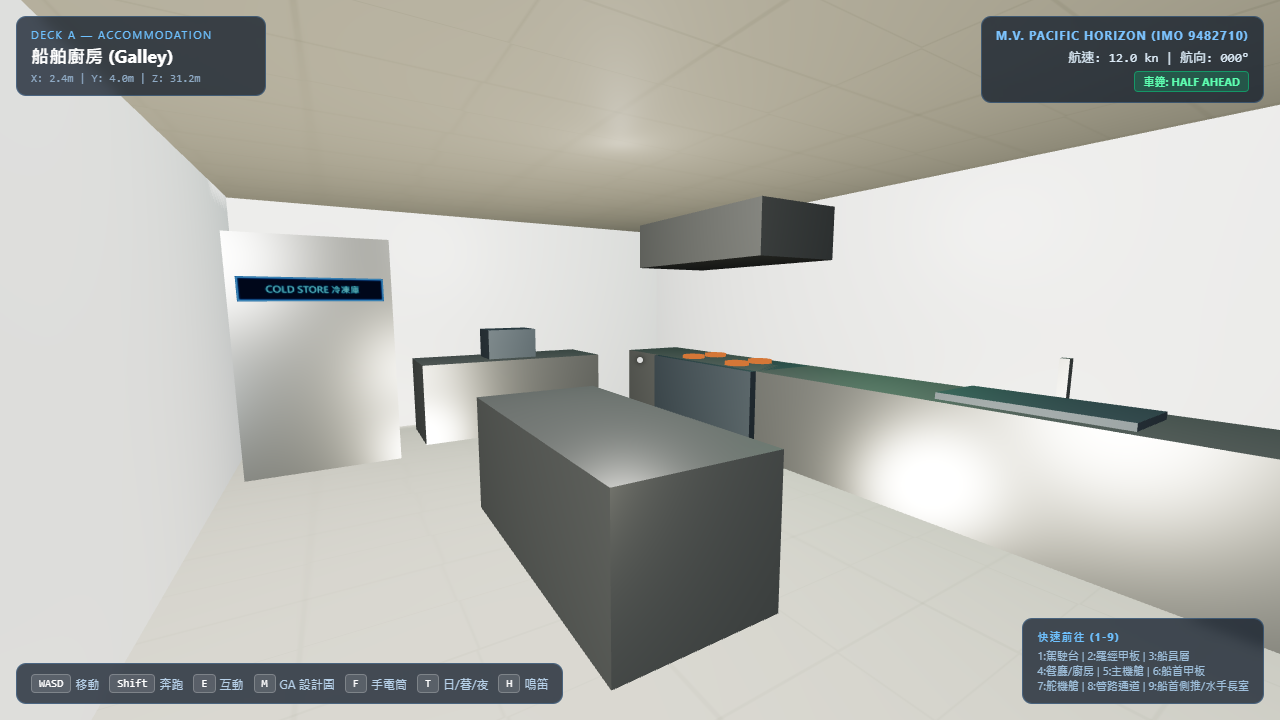
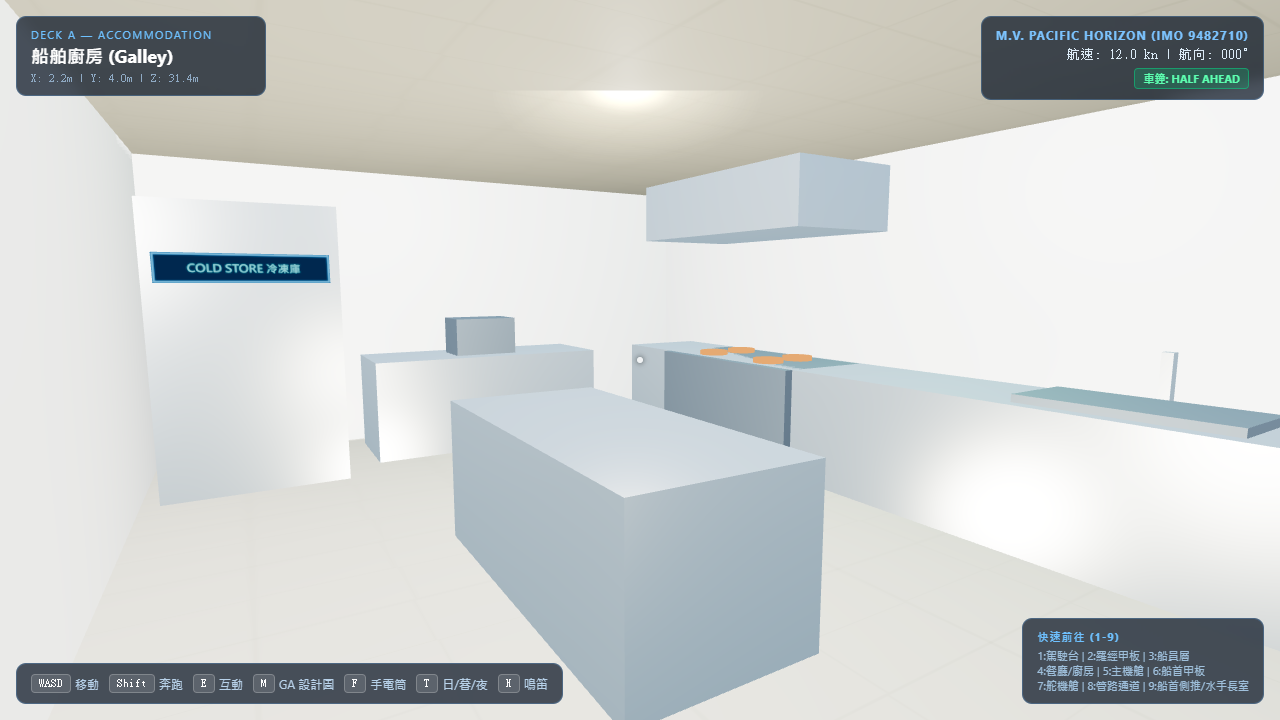
Refresh all 18 README screenshots with PBR lighting, GPU ocean & 1:1 bathrooms

diff --git a/index.html b/index.html
@@ -588,8 +588,8 @@
     map: texHullPlate, bumpMap: texHullBump, bumpScale: 0.025, roughnessMap: texHullRough, roughness: 0.78, metalness: 0.38
   });
   const matHullRed = new THREE.MeshStandardMaterial({ color: 0x8b2323, roughness: 0.7, metalness: 0.25 });
-  const matWhiteSteel = new THREE.MeshStandardMaterial({ color: 0xecf2f7, roughness: 0.45, metalness: 0.15 });
-  const matInteriorWall = new THREE.MeshStandardMaterial({ color: 0xe4e8ec, roughness: 0.6, metalness: 0.05 });
+  const matWhiteSteel = new THREE.MeshStandardMaterial({ color: 0xecf2f7, roughness: 0.48, metalness: 0.15, envMapIntensity: 0.55 });
+  const matInteriorWall = new THREE.MeshStandardMaterial({ color: 0xd8dee4, roughness: 0.72, metalness: 0.04, envMapIntensity: 0.22 });
   const matDeck = new THREE.MeshStandardMaterial({
     map: texDeckGreen, bumpMap: texDeckBump, bumpScale: 0.018, roughnessMap: texDeckRough, roughness: 0.92, metalness: 0.1
   });
@@ -602,11 +602,11 @@
   const matGrate = new THREE.MeshStandardMaterial({
     map: texSteelGrate, bumpMap: texGrateBump, bumpScale: 0.032, roughnessMap: texGrateRough, roughness: 0.72, metalness: 0.72
   });
-  const matInteriorFloor = new THREE.MeshStandardMaterial({ map: texInteriorFloor, roughness: 0.75 });
+  const matInteriorFloor = new THREE.MeshStandardMaterial({ map: texInteriorFloor, roughness: 0.78, envMapIntensity: 0.22 });
   const matBathroomTile = new THREE.MeshStandardMaterial({
-    map: texBathroomTile, bumpMap: texBathroomTileBump, bumpScale: 0.015, roughness: 0.32, metalness: 0.08
+    map: texBathroomTile, bumpMap: texBathroomTileBump, bumpScale: 0.015, roughness: 0.34, metalness: 0.08, envMapIntensity: 0.35
   });
-  const matCeramic = new THREE.MeshStandardMaterial({ color: 0xf7fafc, roughness: 0.16, metalness: 0.05 });
+  const matCeramic = new THREE.MeshStandardMaterial({ color: 0xf4f7fa, roughness: 0.18, metalness: 0.05, envMapIntensity: 0.45 });
   const matChrome = new THREE.MeshStandardMaterial({ color: 0xdce6ee, roughness: 0.12, metalness: 0.92 });
   const matMirror = new THREE.MeshStandardMaterial({ color: 0xcbe4f5, roughness: 0.04, metalness: 0.96 });
   const matFrostedGlass = new THREE.MeshPhysicalMaterial({
@@ -2979,7 +2979,7 @@
     hemiLight.intensity = baseHemiIntensity * (1.0 - curInteriorFactor * 0.82);
     const belowWaterDarken = py < 3.5 ? 0.78 : 0.0;
     sunLight.intensity = baseSunIntensity * (1.0 - curInteriorFactor * belowWaterDarken);
-    renderer.toneMappingExposure = 0.92 + curInteriorFactor * 0.14;
+    renderer.toneMappingExposure = 0.88;
 
     // 2. Animate Doors
     for (let i = 0; i < animatedDoors.length; i++) {
